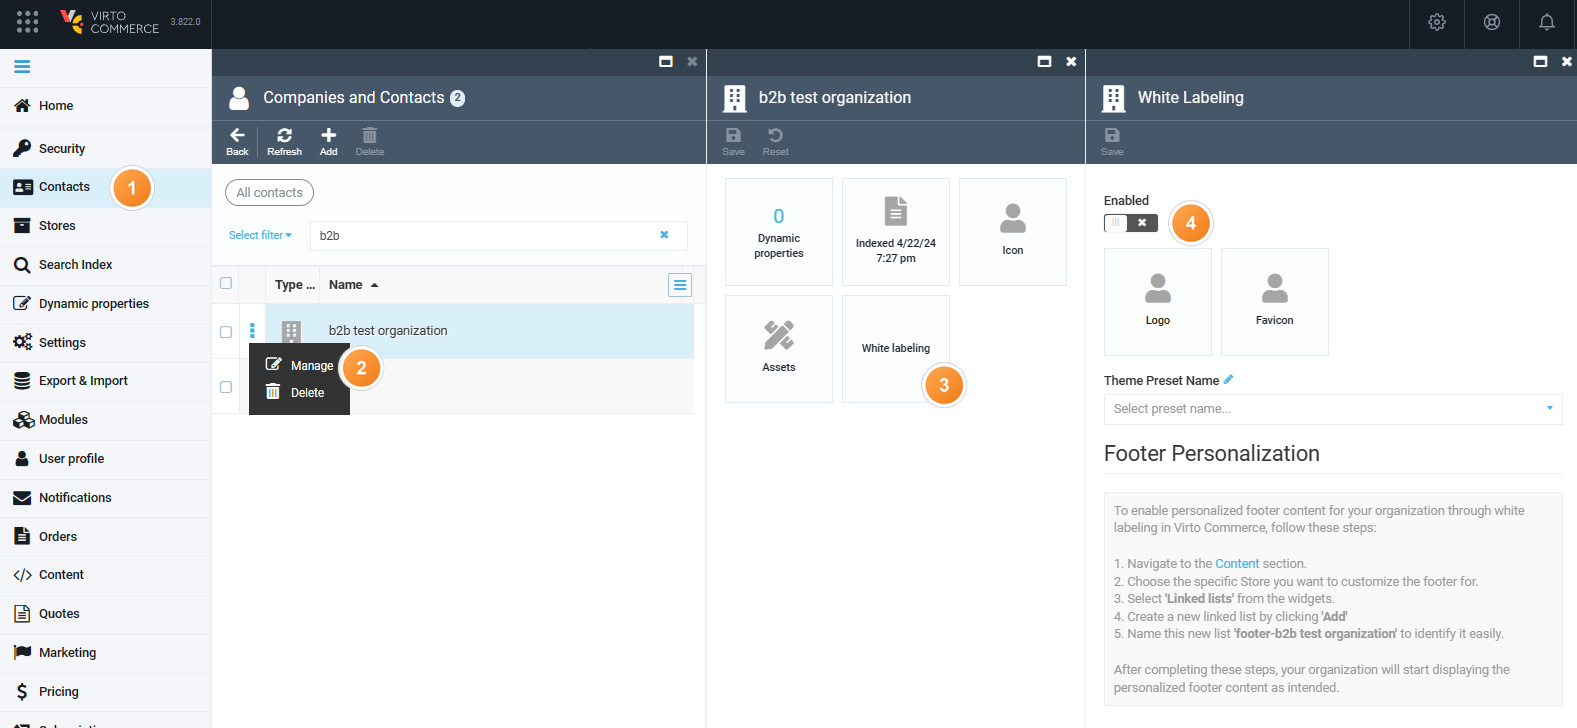
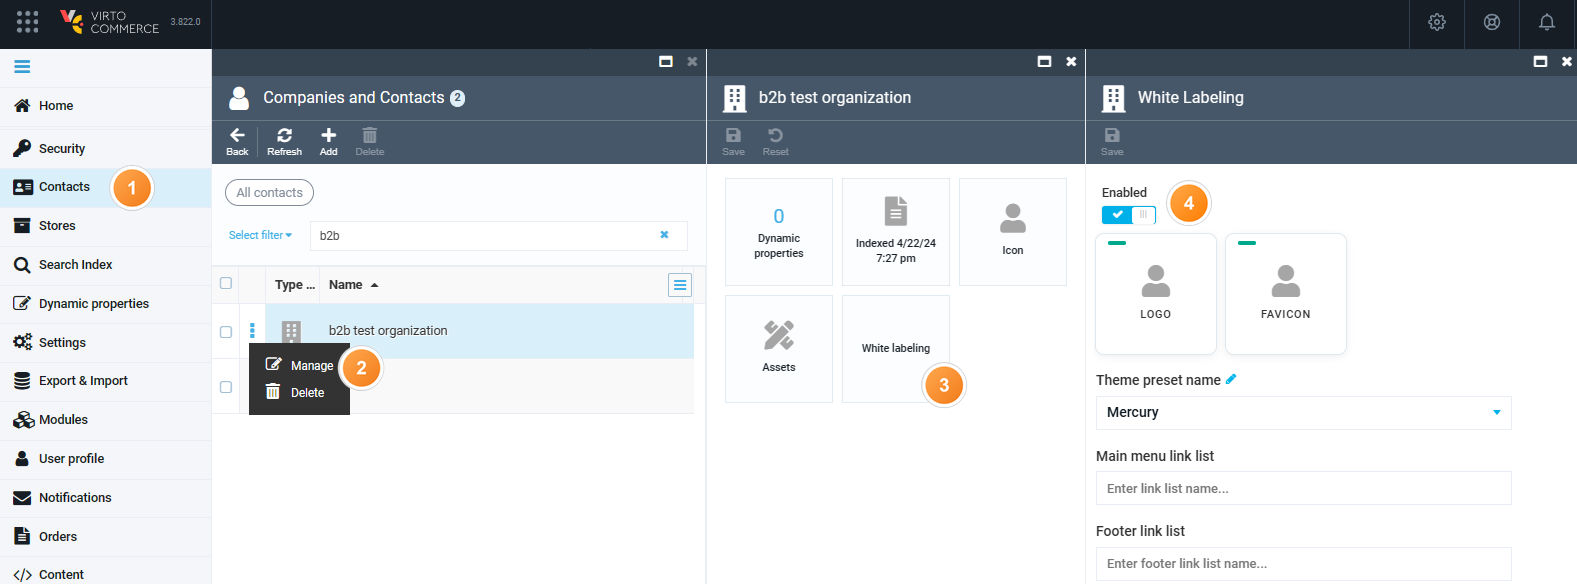
Sprint 26-21 updates. Part 2

diff --git a/platform/user-guide/docs/page-builder/multilanguage-pages.md b/platform/user-guide/docs/page-builder/multilanguage-pages.md
@@ -1,0 +1,112 @@
+# Multilanguage Pages
+
+A **Multilanguage page** is a single page with a separate Page Builder version for each language of the store. Every version has its own content, status, and design, while the name and the default settings belong to the shared page. A regular, single-language page is called a **Landing Page**.
+
+## Prerequisites
+
+Before configuring the module, make sure you have:
+
+* [Page Builder module, version 3.1040.0 or higher.](https://github.com/VirtoCommerce/vc-module-pagebuilder/releases/tag/3.1040.0)
+* [Pages module, version 3.1012.0 or higher.](https://github.com/VirtoCommerce/vc-module-pages/releases/tag/3.1012.0)
+* [XCMS module, version 3.1009.0 or higher.](https://github.com/VirtoCommerce/vc-module-x-cms/releases/tag/3.1009.0)
+* A store configured with more than one language.
+
+## Create multilanguage page
+
+To create a multilanguage page:
+
+1. Click **Stores** in the main menu.
+1. In the next blade, select your store
+1. In the next blade, click the **Page Builder** widget.
+1. Select **All pages** from the main menu.
+1. Click **Add** in the toolbar, then select **Multilanguage page**.
+1. Fill in **Name**, **Permalink**, and the **Default language**, and configure the **Advanced options**. These settings become the default for every language.
+1. Click **Save**.
+
+A multilanguage page appears in list of pages. Click this page to [manage language versions](#manage-language-versions).
+
+!!! note
+    In a store with only one language, **Add** opens the **Landing page** blade directly, with no page-type choice.
+
+
+## Manage language versions
+
+The **Languages** table lists **Language**, **Permalink**, **Status**, and **Actions** for every store language:
+
+![Languages](media/languages-widget.png){: style="display: block; margin: 0 auto;" }
+
+Each language shows one of the following statuses:
+
+| Status | Description |
+| --- | --- |
+| Published | The version is live. |
+| Draft | Content is saved but not published. |
+| Missing | No version exists yet for this language. |
+| Archived | The version is archived. |
+| Outdated | The source language was published again after this translation was last updated. |
+
+For a language that already has a version, that is, any status other than Missing, the available actions are:
+
+* **Open** to edit the permalink and advanced options.
+* **Open designer** to edit content.
+* **Mark up to date**, and **Unlink** to turn the version back into a standalone landing page.
+
+For a missing language, you can click:
+
+* **Create** to add a draft copied from the default language
+* **Link existing** to attach an existing landing page in that language. A linked page keeps its own permalink and settings and adopts the shared name.
+
+## Inherited and custom settings
+
+Permalink, visibility, user groups, organization, and the start and end dates are inherited from the **Multilanguage page** by default. A language version can override any of these fields, and the version blade marks each field as **Inherited** or **Custom**. Setting a field back to the parent value makes it inherited again.
+
+When you change one of these settings on the multilanguage page while some languages already override it, a dialog asks how to apply the change:
+
+* Apply to all languages, which resets the overrides.
+* Apply to inheriting languages only, which leaves the overrides in place.
+* Cancel.
+
+## Publish, archive, and clone
+
+In the toolbar, click **Publish All** to publish every draft language version at once. The default language publishes first, and a language with no draft is reported as skipped. **Archive All** archives every version the same way.
+
+A multilanguage page without language versions can be deleted. One with versions must be archived first, the same as a landing page.
+
+**Clone** copies every language version as a draft, adding "(copy)" to the name and "-copy" to the permalink in every language. Cloning the same page again uses the next free number instead of colliding with the earlier copy.
+
+!!! note
+    Saving a permalink already used by another active page in the same language asks for confirmation, since the Frontend serves one page per permalink and language.
+
+## Outdated translations
+
+Publishing the default language again starts a new revision. A translation already published, created, or marked up to date before that revision becomes **Outdated** until it is republished or marked up to date. Use **Mark up to date** for a source change that needs no translation.
+
+## Convert landing page to multilanguage page
+
+An existing landing page can become the default-language version of a new Multilanguage Page:
+
+1. Open the landing page.
+1. Click **Convert to multilanguage** in the toolbar.
+1. Confirm your action.
+
+The Landing Page becomes the default-language version, with no change on the Frontend. Add the other languages with **Create** or **Link existing** in the new **Languages** table.
+
+## Multilanguage pages on the Frontend
+
+Switching the language on a multilanguage page opens the matching translation's own permalink, instead of staying on the current URL. The page head also lists an **hreflang** link for every published translation, plus an **x-default** link pointing to the default language version.
+
+If a visitor's language has no translation, the **Missing translation behavior** setting of the  Pages module decides the outcome: 
+
+* **Default language** shows the default language version. This is the deault setting.
+* **Not found** returns the page as not found. 
+
+![Readmore](media/readmore.png){: width="20"} [Pages module settings](../pages/settings.md)
+
+<br>
+<br>
+********
+
+<div style="display: flex; justify-content: space-between;">
+    <a href="../manage-pages">← Managing pages via Content module</a>
+    <a href="../manage-pages-via-office">Managing pages via Page Builder office →</a>
+</div>

diff --git a/platform/user-guide/docs/white-labeling/customizing-brand-elements.md b/platform/user-guide/docs/white-labeling/customizing-brand-elements.md
@@ -1,10 +1,16 @@
 # Customize Brand Elements
 
+White labeling can be scoped to a store or to an organization. Store-level white labeling, enabled via the **Stores** module, applies the brand elements to every visitor of that store. Organization-level white labeling, enabled via the **Contacts** module, applies the brand elements on the Frontend only to signed-in members of that organization, overriding the store's own branding for them.
+
+Use organization-level white labeling when one store serves several B2B companies, for example a marketplace or reseller scenario, and each company needs its own logo, favicon, and colors without a separate store per company.
+
 To start customizing brand elements:
 
 1. [Enable white labeling feature via the Stores](customizing-brand-elements.md#enable-white-labeling-via-stores) or [the Contacts module.](customizing-brand-elements.md#enable-white-labeling-via-contacts)
 1. [Customize logo and favicon.](customizing-brand-elements.md#customize-logo-and-favicon)
-1. [Customize footer.](customizing-brand-elements.md#customize-footer)
+1. [Customize main menu and footer.](customizing-brand-elements.md#customize-main-menu-and-footer)
+1. [Apply theme color scheme.](customizing-brand-elements.md#apply-theme-color-scheme)
+
 
 ## Enable white labeling via Stores
 
@@ -32,6 +38,9 @@ To enable white labeling via the **Contacts** module:
 
 White labeling has been enabled.
 
+!!! note
+    Organization branding normally activates after a member of the company signs in. If a custom domain is assigned to the organization, its branding activates on the first visit to that domain, before sign-in.
+
 ## Customize logo and favicon
 
 To add own logos and favicon:
@@ -44,47 +53,45 @@ Your changes have been applied.
 
 <div class="grid cards" markdown>
 
--    __Before__
+-    __Platform__
+
+    ![New statuses](media/logo-favicon-platform.png)
+
+-   __Frontend__
 
     ![New statuses](media/before.png)
 
--   __After__
-
-    ![New statuses](media/after.png)
-
 </div>
 
+## Customize main menu and footer
 
-## Customize footer
+The **Main menu link list** and **Footer link list** fields in the **White Labeling** blade assign a link list, created in the Content module, as the store's or the organization's own main menu and footer.
 
-Let's create the following footer:
+1. [Create a link list in via Content](../content/managing-linklists.md), for example **catalog-menu** for the menu bar, or **footer-links** for the footer.
+1. In the **White Labeling** blade, paste the link list's name into **Main menu link list** or into **Footer link list**.
 
-![Footer example](media/footer-example.png){: style="display: block; margin: 0 auto;" }
+    ![Link lists added](media/link-lists-added.png){: style="display: block; margin: 0 auto;" }
 
-1. Go to **Content** --> Your store --> **Link lists**.
-1. In the **Link lists** blade, click **Add** in the toolbar.
-1. To create root categories, fill in the fields as follows:
+1. Click **Save** in the toolbar, then click **Save** in the previous blade.
 
-    ![Footer links](media/footer-links.png){: style="display: block; margin: 0 auto;" }
+Your menu or footer now follows the assigned link list.
 
-    !!! note
-        Name your footer link list **footer-links** so that the Platform recognizes it as a part of the footer structure.
+!!! note
+    These fields take priority over the store's own menu and footer sources. An empty **Main menu link list** falls back to the store's **Top level catalog linked list** setting, then to the menu generated automatically from catalog categories. An empty **Footer link list** falls back to a link list named **footer-links**. For organization-level white labeling via Contacts, an empty field falls back to the store's own white labeling value.
 
-1. Click **Create**. The current result on the Frontend is as follows:
+## Apply theme color scheme
 
-    ![Footer result](media/footer-example1.png){: style="display: block; margin: 0 auto;" }
+To apply an existing color scheme:
 
-1. Now let's add subcategories to the footer root categories. In the **Link lists** blade, click **Add** in the toolbar.
-1. For the **My account** category, fill in the fields as follows:
+1. In the **White labeling** blade, select one of the [available themes](../content/managing-themes.md#apply-theme-color-scheme) from the dropdown:
 
-    ![Root categories](media/footer-subcategories.png){: style="display: block; margin: 0 auto;" }
+    ![Available themes](media/themes-dropdown.png){: style="display: block; margin: 0 auto;" }
 
-1. Click **Create**.
+1. Click **Save** in the toolbar.
 
-Continue adding subcategories to the root categories according to the example above.
+The theme has been applied to the Frontend.
 
-The footer appears on the Frontend.
-
+![Readmore](media/readmore.png){: width="25"} [Adding custom themes](../content/managing-themes.md)
 
 <br>
 <br>

diff --git a/platform/deployment-on-cloud/docs/store-branding.md b/platform/deployment-on-cloud/docs/store-branding.md
@@ -97,12 +97,14 @@ You can personalize your store by applying a [custom theme](/storefront/develope
 
 For the purpose of this guide, a color scheme named **safco** has been created by the developers. To apply a new color scheme to your store:
 
-1. Select one of the out-of-the-box color schemes or your custom scheme (**safco**) and copy its name without extension to clipboard:
+1. Select one of the out-of-the-box color schemes or your custom scheme (**safco**) and copy its name without extension to clipboard.
 1. Go to **Stores** --> Your store --> **White labeling**.
 1. In the **White labeling** blade, click ![Pencil](media/pencil.png){: width="25"} next to the **Theme preset name**.
 1. In the next blade, click **Add** in the toolbar.
-1. Paste the filename to the new field and click ![Floppy](media/floppy.png){: width="25"} to save the changes.
-1. Click **Save** in the too lbar.1.  In the previous blade, s elect the newly added theme from the dropdown list.1.  Click **Save** in the toolbar.
+1. Paste the filename to the new field and click ![Floppy](media/floppy.png){: width="20"} to save the changes.
+1. Click **Save** in the toolbar.
+1. In the previous blade, select the newly added theme from the dropdown list.
+1. Click **Save** in the toolbar.
 
 Your new color scheme has been applied:
 

diff --git a/storefront/user-guide/docs/account/sales-rep-hub.md b/storefront/user-guide/docs/account/sales-rep-hub.md
@@ -31,6 +31,20 @@ The customers can be edited as follows:
 
 ![Edit customers](../media/edit-my-customers.gif)
 
+### Customer profile
+
+Click a customer to open their profile. It shows the customer's orders and carts: orders in **New** status, active carts, purchased month to date, orders placed year to date, average order value, and the customer's recent orders:
+
+![Customer profile](../media/customer-profile.png)
+
+The **Customer activity** widget on the same profile shows the customer's web activity from Google Analytics 4. 
+
+The **Summary** tab shows the last login, the total number of visits, the last search term, and the last viewed product, and the **Searches** and **Product views** tabs show the full history. Click **All activity** to open the customer's own activity feed, the same page the [My activity](#my-activity) feed opens for a single customer.
+
+![Customer activity](../media/customer-activity.png)
+
+!!! note
+    The **Customer activity** widget needs the Google Ecommerce Analytics module connected to the store. Without it, the profile still shows the order and cart data above, but has no **Customer activity** widget, and **All activity** opens the customer's profile instead of their activity feed.
 
 ## Tasks
 

diff --git a/platform/user-guide/docs/passkeys/overview.md b/platform/user-guide/docs/passkeys/overview.md
@@ -12,7 +12,7 @@ The diagram below shows the Passkeys module dependencies:
 
 ## Key features
 
-* A user adds a passkey from their own profile, in the [Backoffice](../enabling-passkeys.md#manage-your-own-passkeys) or on the [Frontend](/storefront/user-guide/latest/account/security#add-passkey). The browser or device keeps the private key, and the Platform keeps only the public key.
+* A user adds a passkey from their own profile, in the [Backoffice](enabling-passkeys.md#manage-your-own-passkeys) or on the [Frontend](/storefront/user-guide/latest/account/security#add-passkey). The browser or device keeps the private key, and the Platform keeps only the public key.
 * Users rename and delete their own passkeys from their list of sign-in keys.
 * A passkey sign-in skips the one-time code from [MFA](../mfa/overview.md), since a passkey is already a strong second factor.
 * The passkey button and passkey creation only appear in a browser that supports passkeys.

diff --git a/platform/user-guide/docs/page-builder/manage-pages.md b/platform/user-guide/docs/page-builder/manage-pages.md
@@ -8,6 +8,9 @@ Managing pages through the Content module includes:
 
 ## Create new page
 
+!!! note
+    In a store with more than one language, **Add** first offers a choice between a **Landing Page** (the single-language flow below) and a [Multilanguage Page](multilanguage-pages.md).
+
 You can create new pages using:
 
 * [Designer (block-based option).](#create-new-page-in-designer)
@@ -75,5 +78,5 @@ Alternatively, you can publish or unpublish your page later in from the Content 
 
 <div style="display: flex; justify-content: space-between;">
     <a href="../overview">← Page Builder module overview</a>
-    <a href="../manage-pages-via-office">Managing pages via Page Builder office →</a>
+    <a href="../multilanguage-pages">Multilanguage pages →</a>
 </div>

diff --git a/platform/user-guide/docs/page-builder/manage-pages-via-office.md b/platform/user-guide/docs/page-builder/manage-pages-via-office.md
@@ -172,6 +172,6 @@ Back in Page Builder Office, you will see the name of the page(s) where the imag
 ********
 
 <div style="display: flex; justify-content: space-between;">
-    <a href="../manage-pages">← Managing pages via Content module </a>
-    <a href="../configure-content-block">Configure content blocks in Designer →</a>
+    <a href="../multilanguage-pages">← Multilanguage pages</a>
+    <a href="../configure-content-block">Configuring content blocks in Designer →</a>
 </div>

diff --git a/platform/user-guide/docs/page-builder/overview.md b/platform/user-guide/docs/page-builder/overview.md
@@ -32,6 +32,7 @@ With the Page Builder module, you can
 * Customize ecommerce pages with a preview feature.
 * Preview content before publishing.
 * Export, import, and duplicate pages.
+* Manage [Multilanguage Pages](multilanguage-pages.md) with one language version per store language.
 * Access a block library for different page elements.
 * Implement SEO by design for better search engine visibility.
 * Ensure mobile-friendliness through design.
